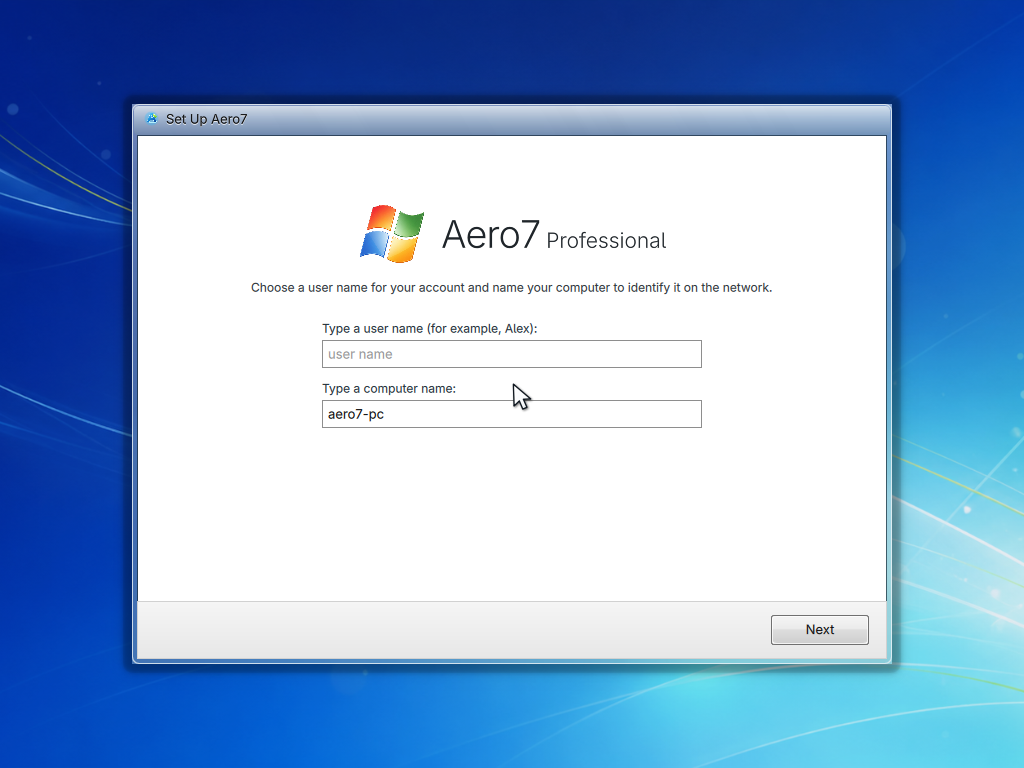
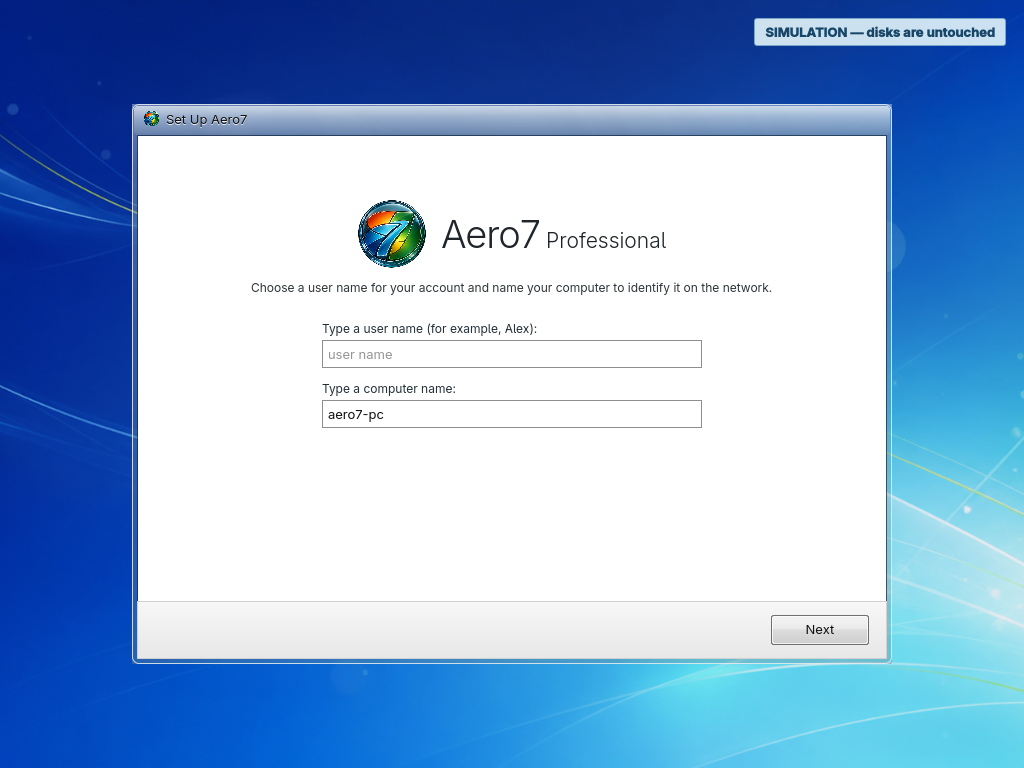
Adopt the new Aero7 identity outside Plymouth

diff --git a/THIRD_PARTY.md b/THIRD_PARTY.md
@@ -11,16 +11,16 @@
   original abstract cobalt-to-cyan Aero7 installer background with sweeping
   light trails and bokeh; no text, logos, flags, Windows marks, Microsoft
   wallpaper motifs, recognizable flowers or birds, UI panels, or watermark.
-- `installer/assets/aero7-logo-plain.png` and the two `aero7-logo-*.png` files
-  under `third_party/PlymouthVista/images/` are derived from AI-generated images
-  supplied by the project owner on 2026-07-29. OpenAI's built-in image editor
-  isolated the supplied marks on a chroma-key background; the background was
-  then removed mechanically. The plain mark is used by the installer and the
-  circular mark is used as the finished desktop's Start badge. At the project
-  owner's request, the existing animated Plymouth boot sequence is retained
-  instead of replacing it with the static circular mark.
+- `installer/assets/aero7-logo-plain.png` and
+  `installer/assets/aero7-logo-circle.png` are deterministic UI-sized variants
+  of the transparent AI-generated Aero7 7 emblem supplied by the project owner
+  on 2026-08-02. The source artwork was cropped and downscaled without
+  redesigning or recoloring it. It is used by the installer and by installed
+  desktop branding. The older `aero7-logo-*.png` files under
+  `third_party/PlymouthVista/images/` remain part of the separately requested
+  Plymouth theme and were deliberately not replaced.
 - `installer/assets/aero7-sddm-branding.png` is a mechanical 350x50 composition
-  of that project-owner-supplied plain mark with Aero7 text rendered in the
+  of that project-owner-supplied 7 emblem with Aero7 text rendered in the
   bundled OFL-licensed Adwaita Sans font. It replaces the upstream SDDM and
   Plasma Welcome/logout product watermark.
 - The Plymouth boot animation is based on
@@ -31,9 +31,9 @@
   under `third_party/PlymouthVista/`.
 - The shipped Plymouth boot script retains the requested upstream `flag*.png`
   animation frames. Unused upstream `branding_*.png` and `authui_*.png` files
-  were removed from the current tree and are not installed; shutdown/update
-  branding uses the project-owner-supplied plain Aero7 mark and the project's
-  original Aero7 background. Earlier commits still contain the removed files.
+  were removed from the current tree and are not installed; its existing
+  shutdown/update branding and animation artwork are intentionally preserved.
+  Earlier commits still contain the removed files.
 - The installer frame, caption buttons, and back-button sprite come from the
   AeroThemePlasma/SMOD projects at the revisions recorded in `sources.lock`.
   Their copied assets and the mechanical Kvantum button crops remain under the

diff --git a/third_party/UserArtwork.md b/third_party/UserArtwork.md
@@ -1,18 +1,22 @@
 # Project-owner-supplied Aero7 artwork
 
-The project owner supplied two AI-generated Aero7 logo images on 2026-07-29:
-one plain four-pane mark and one circular glass variant. OpenAI's built-in image
-editor was used in background-extraction mode to place each existing mark on a
-flat magenta chroma key. The standard imagegen transparency helper then removed
-that key without installing software on the host.
+The project owner supplied a transparent AI-generated circular Aero7 7 emblem
+on 2026-08-02 and approved it as the primary non-Plymouth Aero7 identity. The
+installer variants are deterministic crops and downscales of that supplied
+artwork; its design, colors, highlights, and internal glass effects were not
+regenerated or recolored.
 
-Project outputs:
+Current non-Plymouth outputs:
 
 - `installer/assets/aero7-logo-plain.png`
 - `installer/assets/aero7-logo-circle.png`
+- `installer/assets/aero7-sddm-branding.png`
+
+The older project-owner-supplied files below are retained only because the
+project owner explicitly requested that Plymouth remain unchanged:
+
 - `third_party/PlymouthVista/images/aero7-logo-plain.png`
 - `third_party/PlymouthVista/images/aero7-logo-circle.png`
 
-Final image-editing prompt intent: isolate the supplied mark; preserve its pane
-or circular-glass design; remove only the original background and exterior glow;
-add no text, watermark, shadow, or extra branding.
+Those Plymouth files and the `flag*.png` animation frames are not sources for
+the current installer, login, desktop, or companion-application identity.

diff --git a/wiki/Home.md b/wiki/Home.md
@@ -1,5 +1,9 @@
 # Aero7 Wiki
 
+<p align="center">
+  <img src="https://raw.githubusercontent.com/memegeko/aero7/main/installer/assets/aero7-logo-circle.png" width="150" alt="Aero7 logo">
+</p>
+
 Welcome to the handbook for **Aero7**, an independent Arch Linux-based operating
 system with a Windows-7-era-inspired installer and KDE Plasma 6 Wayland desktop.
 
